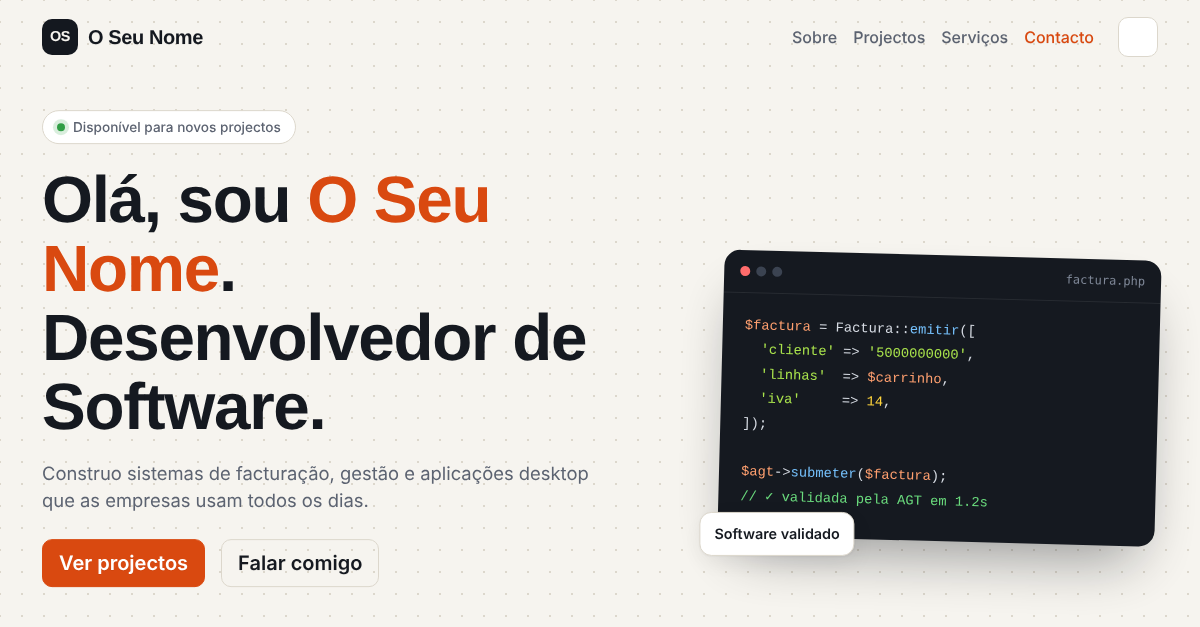
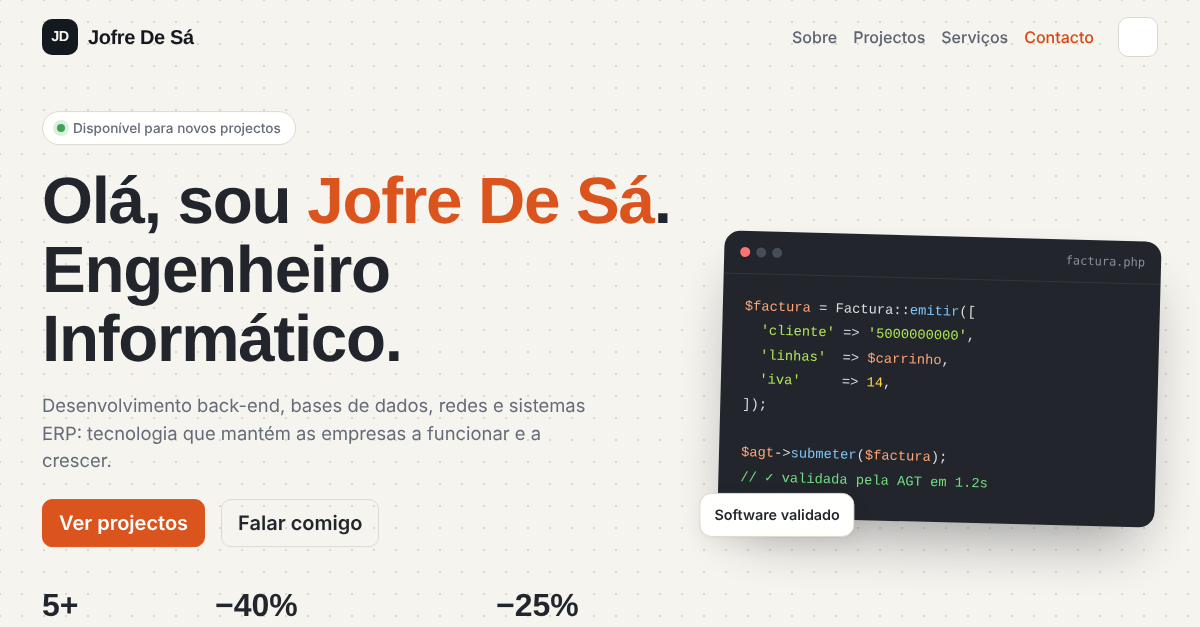
Bio baseada no LinkedIn, novas competências e imagem de partilha
Claude-Session: https://claude.ai/code/session_019mW8TdoKWLB4gyZsP793bz

diff --git a/data/profile.php b/data/profile.php
@@ -1,33 +1,48 @@
 <?php
 /**
  * >>> EDITE AQUI os seus dados pessoais. <<<
+ * Para separar parágrafos no texto "about", use uma linha em branco (\n\n).
  */
 return [
     'name'      => 'Jofre De Sá',
-    'role'      => 'IT - Desenvolvedor de Software',
+    'role'      => 'Engenheiro Informático',
     'location'  => 'Luanda, Angola',
-    'headline'  => 'Construo sistemas de facturação, gestão e aplicações desktop que as empresas usam todos os dias.',
-    'about'     => 'Desenvolvo soluções de ponta a ponta: da base de dados à interface. Trabalho com ERPs de facturação '
-                 . 'certificados pela AGT, sistemas de gestão de stock e vendas, aplicações desktop em C# e Delphi, '
-                 . 'e aplicações web em PHP e JavaScript. Gosto de software simples de usar e sólido por dentro.',
+    'headline'  => 'Desenvolvimento back-end, bases de dados, redes e sistemas ERP: '
+                 . 'tecnologia que mantém as empresas a funcionar e a crescer.',
+    'about'     => "Sou Engenheiro Informático, formado pelo Instituto Superior Técnico de Angola (ISTA) e certificado "
+                 . "CCNA Routing & Switching pela Cisco Networking Academy. Há mais de cinco anos trabalho na interseção "
+                 . "entre software, dados e infraestrutura, o que me permite olhar para cada projecto como um todo: "
+                 . "da rede ao servidor, da base de dados à aplicação que o utilizador vê.\n\n"
+                 . "Como Back-end Developer na BySirada Eventos, desenvolvo aplicações em ASP.NET MVC e C#, APIs e "
+                 . "integrações com bases de dados, incluindo o CRM HUB da Plotting Engage, com controlo de acesso por "
+                 . "níveis e gestão de stands, utilizadores, projectos e documentos. Ao optimizar consultas SQL, reduzi "
+                 . "em 25% o tempo de execução de relatórios críticos.\n\n"
+                 . "Na Quianni Soft fui administrador de sistemas e DBA (SQL Server e MySQL): participei na melhoria de "
+                 . "um ERP com grande volume de utilizadores no mercado angolano, aumentando a sua eficiência em 20%, e "
+                 . "implementei rotinas de backup e monitorização que reduziram as falhas em 40%. Hoje, como Engenheiro "
+                 . "de TI independente, presto consultoria em redes, ERP e suporte técnico, com tempos de resposta a "
+                 . "incidentes 30% mais curtos.\n\n"
+                 . "Acredito que a transformação digital depende de integrar pessoas, processos e tecnologia, e que a "
+                 . "segurança e a resiliência dos dados são parte da estratégia de qualquer negócio, não um custo técnico.",
     'email'     => 'jofremateus22@hotmail.com',
-    'phone'     => '+244 944183884',
+    'phone'     => '+244 944 183 884',
     'cv_url'    => '#', // ex.: 'assets/cv.pdf'
     'socials'   => [
-        'linkedin' => 'https://www.linkedin.com/in/jofresá',
+        'linkedin' => 'https://www.linkedin.com/in/jofres%C3%A1/',
         'github'   => 'https://github.com/jofre-de-sa',
         'whatsapp' => 'https://wa.me/244944183884',
     ],
     'stats' => [
-        ['value' => '6+',  'label' => 'anos de experiência'],
-        ['value' => '30+', 'label' => 'projectos entregues'],
-        ['value' => '20+', 'label' => 'empresas clientes'],
+        ['value' => '5+',   'label' => 'anos de experiência'],
+        ['value' => '−40%', 'label' => 'falhas com novas rotinas de backup'],
+        ['value' => '−25%', 'label' => 'tempo de relatórios SQL'],
     ],
     'skills' => [
-        'Backend'      => ['PHP', 'Laravel', 'C# / .NET', 'Node.js', 'REST APIs'],
-        'Desktop'      => ['WinForms', 'WPF', 'Delphi', 'Electron'],
-        'Frontend'     => ['HTML5', 'CSS3', 'JavaScript', 'Bootstrap', 'React'],
-        'Dados'        => ['PostgreSQL', 'Supabase', 'MySQL', 'SQL Server', 'SQLite'],
-        'Ferramentas'  => ['Git / GitHub', 'Docker', 'Linux', 'Crystal Reports'],
+        'Back-end'          => ['C#', 'ASP.NET MVC', 'APIs / Web Services', 'Entity Framework', 'PHP'],
+        'Bases de dados'    => ['SQL Server', 'MySQL', 'Optimização de queries', 'Backup & monitorização', 'Segurança de dados'],
+        'Redes'             => ['CCNA Routing & Switching', 'LAN / WAN', 'VLANs', 'OSPF'],
+        'Sistemas & suporte'=> ['ERP', 'Office 365', 'Helpdesk', 'Troubleshooting', 'Infraestrutura de TI'],
+        'Front-end'         => ['HTML5', 'CSS3', 'JavaScript', 'Bootstrap'],
+        'Competências'      => ['Resolução de problemas', 'Comunicação', 'Trabalho em equipa'],
     ],
 ];

diff --git a/index.php b/index.php
@@ -132,7 +132,9 @@ $year = date('Y');
             <div class="col-lg-5 reveal">
                 <span class="section-label">01 — Sobre</span>
                 <h2 class="section-title">Software que resolve problemas reais de negócio.</h2>
-                <p class="text-body-secondary"><?= e($profile['about']) ?></p>
+                <?php foreach (preg_split('/\n\s*\n/', trim($profile['about'])) as $para): ?>
+                    <p class="text-body-secondary"><?= e($para) ?></p>
+                <?php endforeach; ?>
                 <p class="mb-0 small text-body-secondary"><i class="bi bi-geo-alt"></i> <?= e($profile['location']) ?></p>
                 <?php if ($profile['cv_url'] !== '#'): ?>
                     <a href="<?= e($profile['cv_url']) ?>" class="btn btn-ghost mt-4" download><i class="bi bi-download"></i> Descarregar CV</a>
